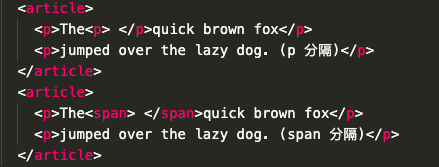
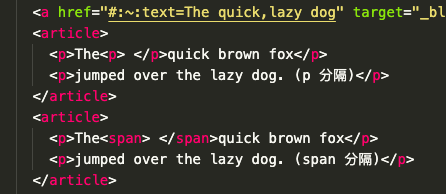
fix: lazy dog error

diff --git a/index.html b/index.html
@@ -31,8 +31,8 @@
       }
       .fox-dog img {
         position: absolute;
-        left: 320px;
-        top: 127px;
+        left: 310px;
+        top: 100px;
       }
     </style>
   </head>
@@ -91,8 +91,7 @@
 
       <section class="fox-dog">
         <h2>单个块内的文本匹配</h2>
-        <a href="#:~:text=The quick,lazy dog" target="_blank"><span>#:~:text=The quick,lazy dog</span>（分隔匹配不到，行内分隔可以匹配）</a>
-
+        <a href="#:~:text=The quick,lazy dog" target="_blank">块级分隔匹配不到，行内分隔可以匹配</a>
         <article>
           <p>The<p> </p>quick brown fox</p>
           <p>jumped over the lazy dog. (p 分隔)</p>
@@ -104,9 +103,7 @@
         <img src="./src/assets/p.png">
       </section>
 
-      <copy-section t="custom element example text" p="ass">
-        <span slot="my-text">Let's have some different text!</span>
-      </copy-section>
+      <copy-section t="优先级高于 background 和 color" p="ass"></copy-section>
     </main>
     <script type="module" src="./src/main.ts"></script>
   </body>

diff --git a/src/main.ts b/src/main.ts
@@ -4,12 +4,12 @@ class CopySection extends HTMLElement {
 
     const h2 = document.createElement('h2')
     h2.textContent = this.getAttribute('t')
-    const div = document.createElement('div')
-    div.textContent = this.getAttribute('p')
+    const p = document.createElement('p')
+    p.textContent = this.getAttribute('p')
 
     const shadowRoot = this.attachShadow({mode: 'open'})
     shadowRoot.appendChild(h2)
-    shadowRoot.appendChild(div)
+    shadowRoot.appendChild(p)
   }
 }
 
